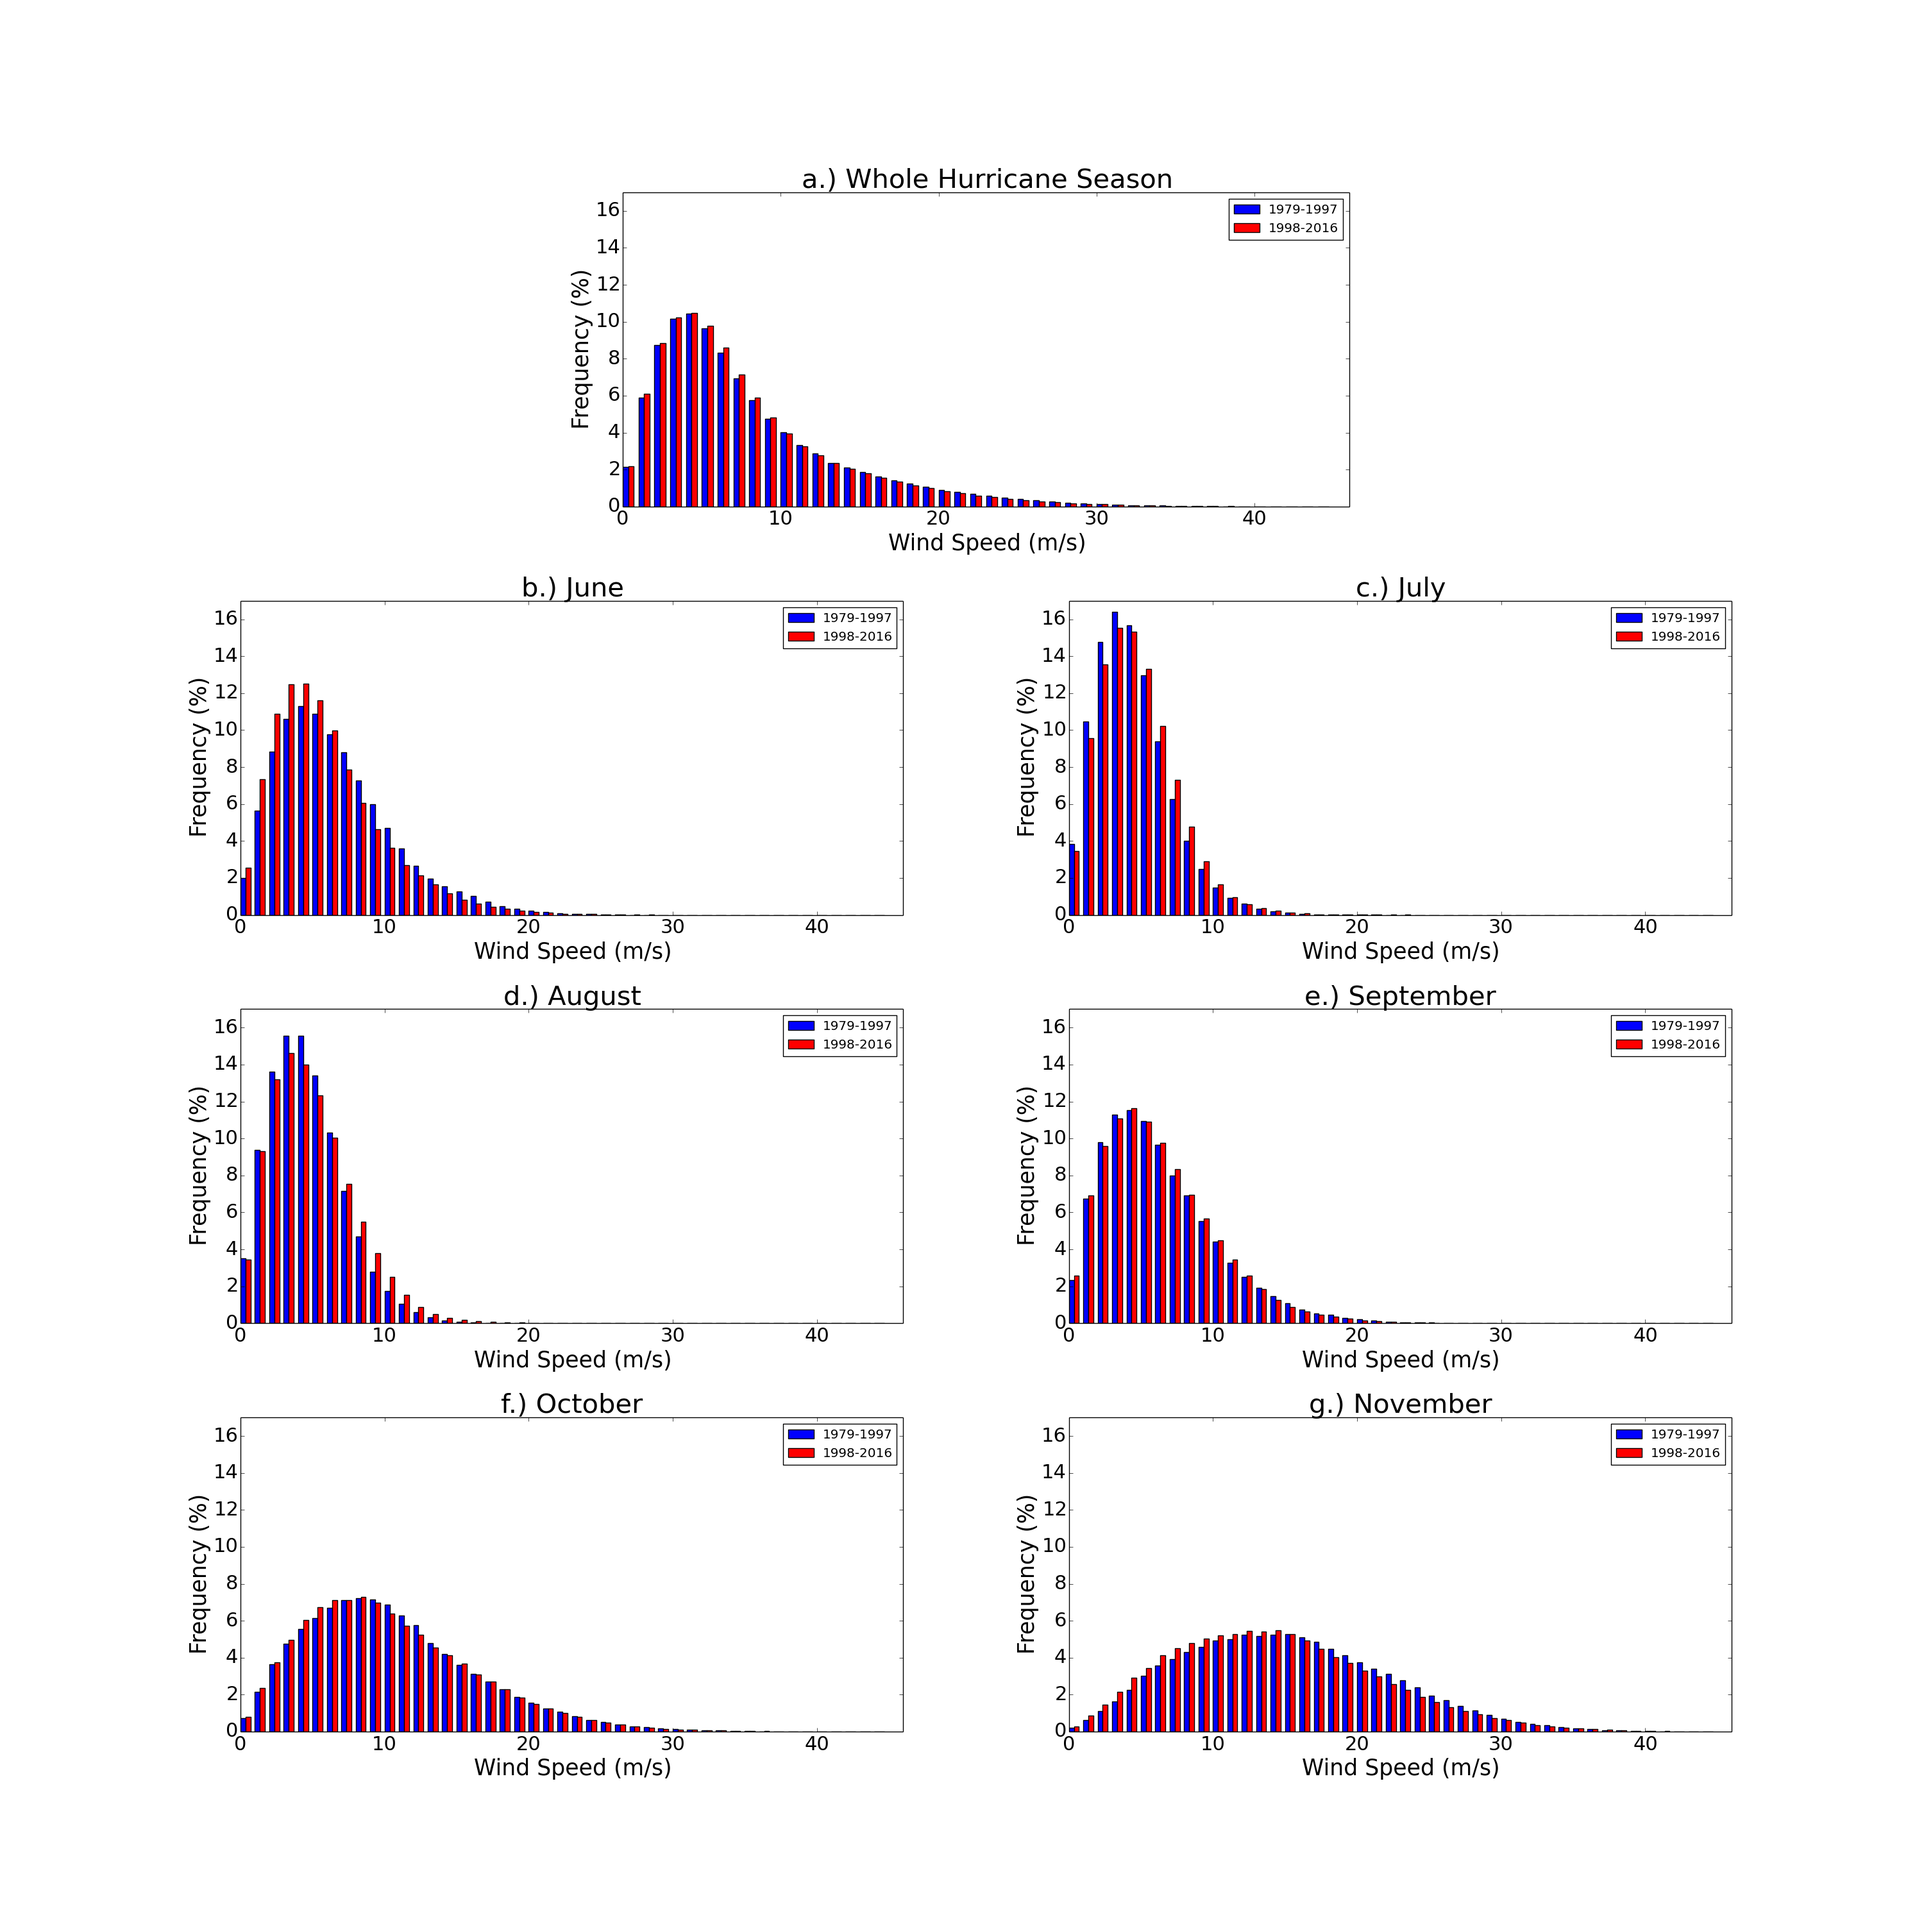
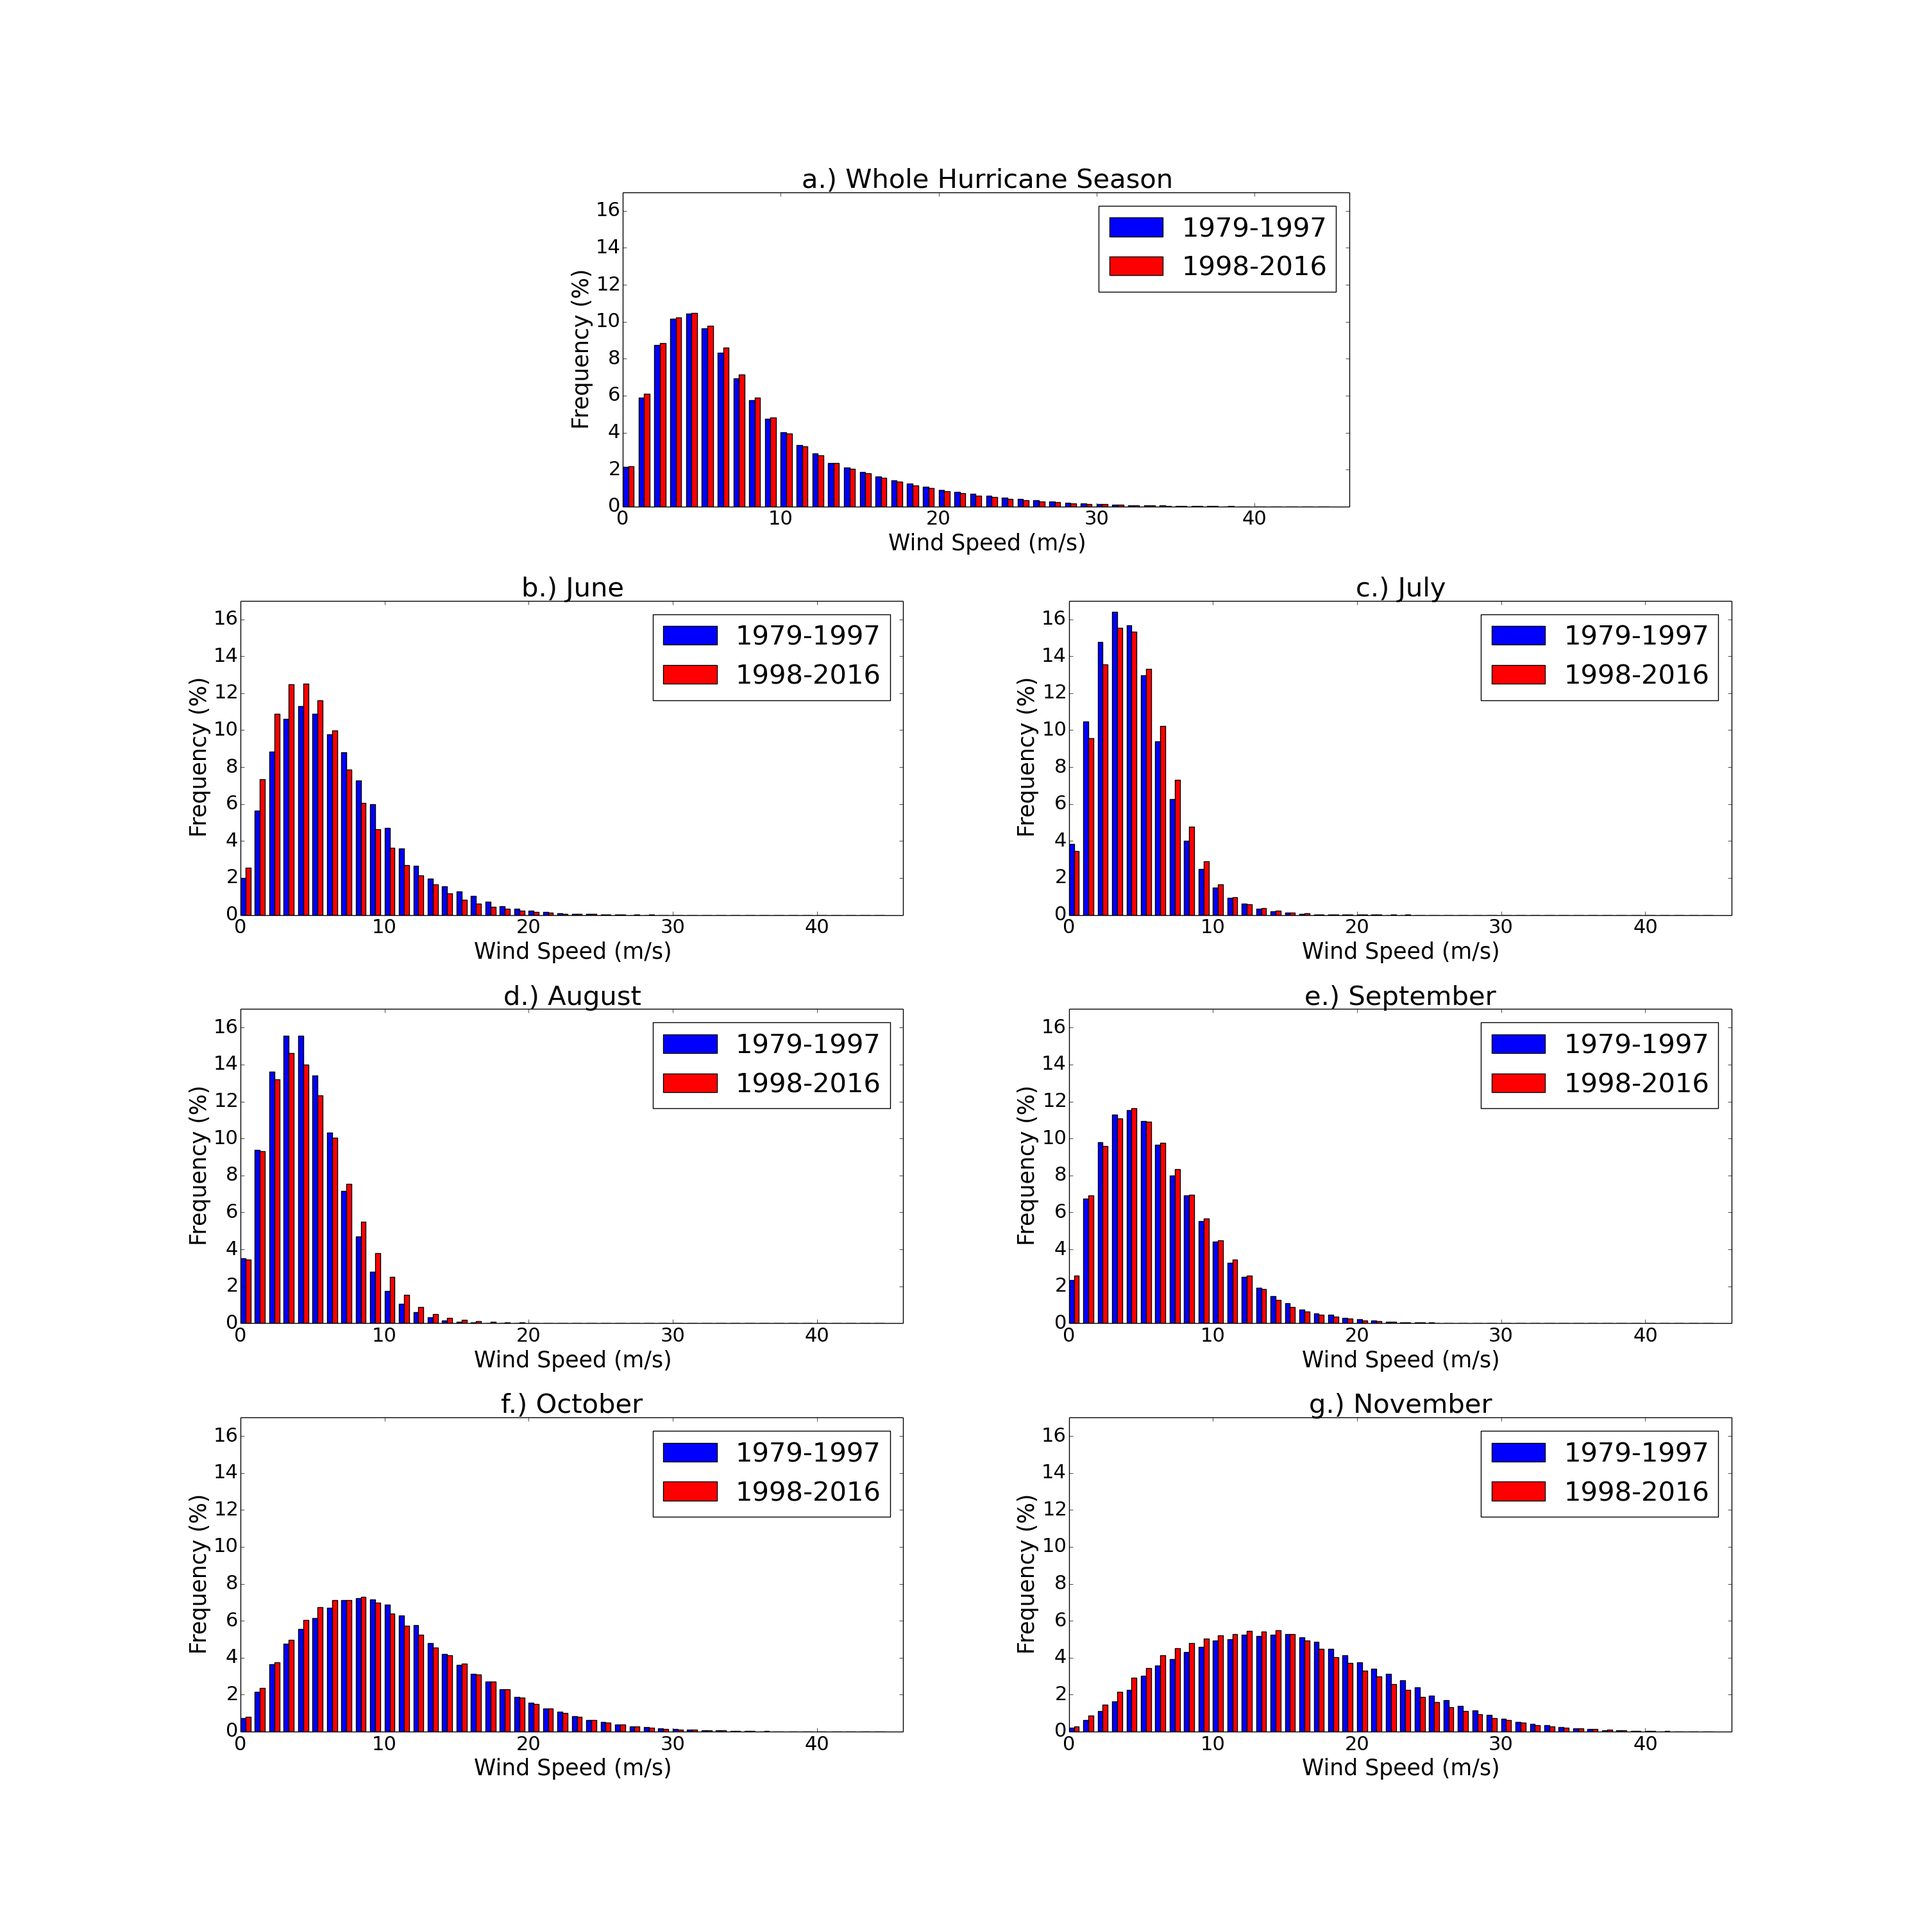
Update to 7 side-by-side subplots

diff --git a/DLM_stats.py b/DLM_stats.py
@@ -2106,7 +2106,7 @@ axes[0,0].set_ylim(ymax = 17)
 axes[0,0].set_xlabel('Wind Speed (m/s)')
 axes[0,0].set_ylabel('Frequency (%)')
 axes[0,0].set_title('a.) Whole Hurricane Season')
-axes[0,0].legend()
+axes[0,0].legend(fontsize = 30)
 
 axes[1,0].bar(np.arange(len(norm_wind_speed_freq_79_97_June)), norm_wind_speed_freq_79_97_June, bar_width,
               color='b', label='1979-1997')
@@ -2117,7 +2117,7 @@ axes[1,0].set_ylim(ymax = 17)
 axes[1,0].set_xlabel('Wind Speed (m/s)')
 axes[1,0].set_ylabel('Frequency (%)')
 axes[1,0].set_title('b.) June')
-axes[1,0].legend()
+axes[1,0].legend(fontsize = 30)
 
 axes[1,1].bar(np.arange(len(norm_wind_speed_freq_79_97_July)), norm_wind_speed_freq_79_97_July, bar_width,
               color='b', label='1979-1997')
@@ -2128,7 +2128,7 @@ axes[1,1].set_ylim(ymax = 17)
 axes[1,1].set_xlabel('Wind Speed (m/s)')
 axes[1,1].set_ylabel('Frequency (%)')
 axes[1,1].set_title('c.) July')
-axes[1,1].legend()
+axes[1,1].legend(fontsize = 30)
 
 axes[2,0].bar(np.arange(len(norm_wind_speed_freq_79_97_Aug)), norm_wind_speed_freq_79_97_Aug, bar_width,
               color='b', label='1979-1997')
@@ -2139,7 +2139,7 @@ axes[2,0].set_ylim(ymax = 17)
 axes[2,0].set_xlabel('Wind Speed (m/s)')
 axes[2,0].set_ylabel('Frequency (%)')
 axes[2,0].set_title('d.) August')
-axes[2,0].legend()
+axes[2,0].legend(fontsize = 30)
 
 axes[2,1].bar(np.arange(len(norm_wind_speed_freq_79_97_Sep)), norm_wind_speed_freq_79_97_Sep, bar_width,
               color='b', label='1979-1997')
@@ -2150,7 +2150,7 @@ axes[2,1].set_ylim(ymax = 17)
 axes[2,1].set_xlabel('Wind Speed (m/s)')
 axes[2,1].set_ylabel('Frequency (%)')
 axes[2,1].set_title('e.) September')
-axes[2,1].legend()
+axes[2,1].legend(fontsize = 30)
 
 axes[3,0].bar(np.arange(len(norm_wind_speed_freq_79_97_Oct)), norm_wind_speed_freq_79_97_Oct, bar_width,
               color='b', label='1979-1997')
@@ -2161,7 +2161,7 @@ axes[3,0].set_ylim(ymax = 17)
 axes[3,0].set_xlabel('Wind Speed (m/s)')
 axes[3,0].set_ylabel('Frequency (%)')
 axes[3,0].set_title('f.) October')
-axes[3,0].legend()
+axes[3,0].legend(fontsize = 30)
 
 axes[3,1].bar(np.arange(len(norm_wind_speed_freq_79_97_Nov)), norm_wind_speed_freq_79_97_Nov, bar_width,
               color='b', label='1979-1997')
@@ -2172,7 +2172,7 @@ axes[3,1].set_ylim(ymax = 17)
 axes[3,1].set_xlabel('Wind Speed (m/s)')
 axes[3,1].set_ylabel('Frequency (%)')
 axes[3,1].set_title('g.) November')
-axes[3,1].legend()
+axes[3,1].legend(fontsize = 30)
 
 plt.subplots_adjust(left = 0.125, bottom = 0.1, right = 0.9, top = 0.9, wspace = 0.25, hspace = 0.3)
 
